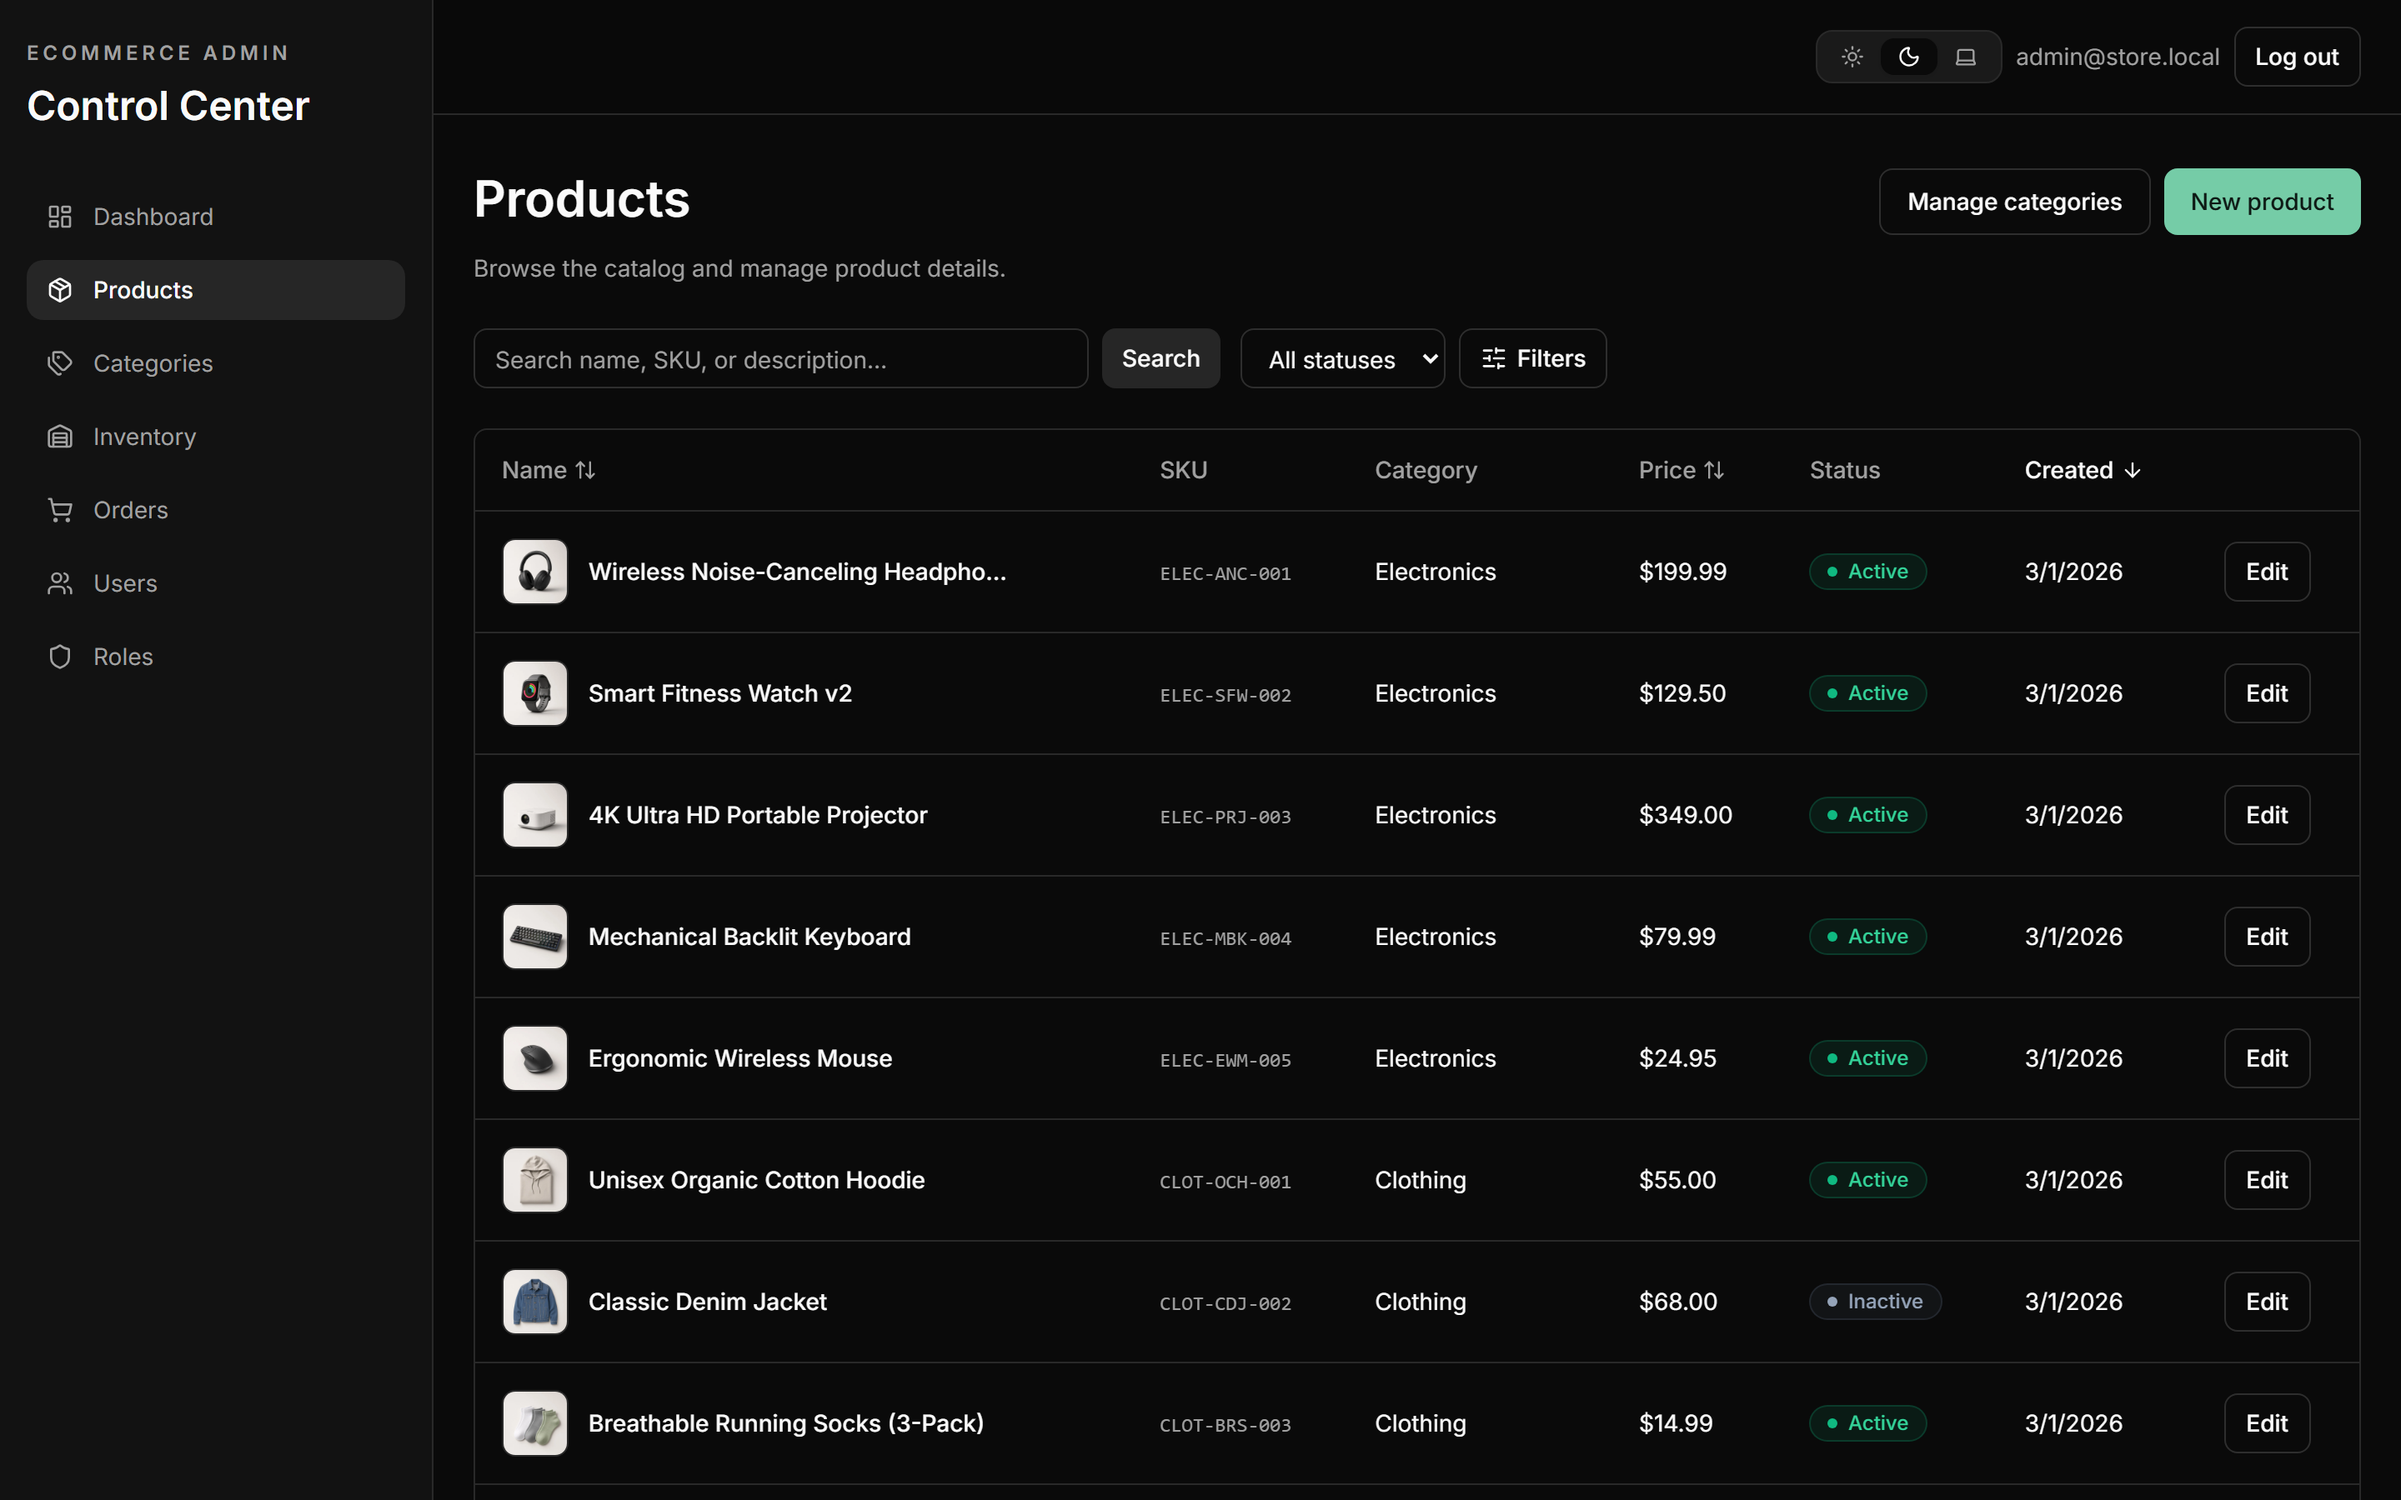
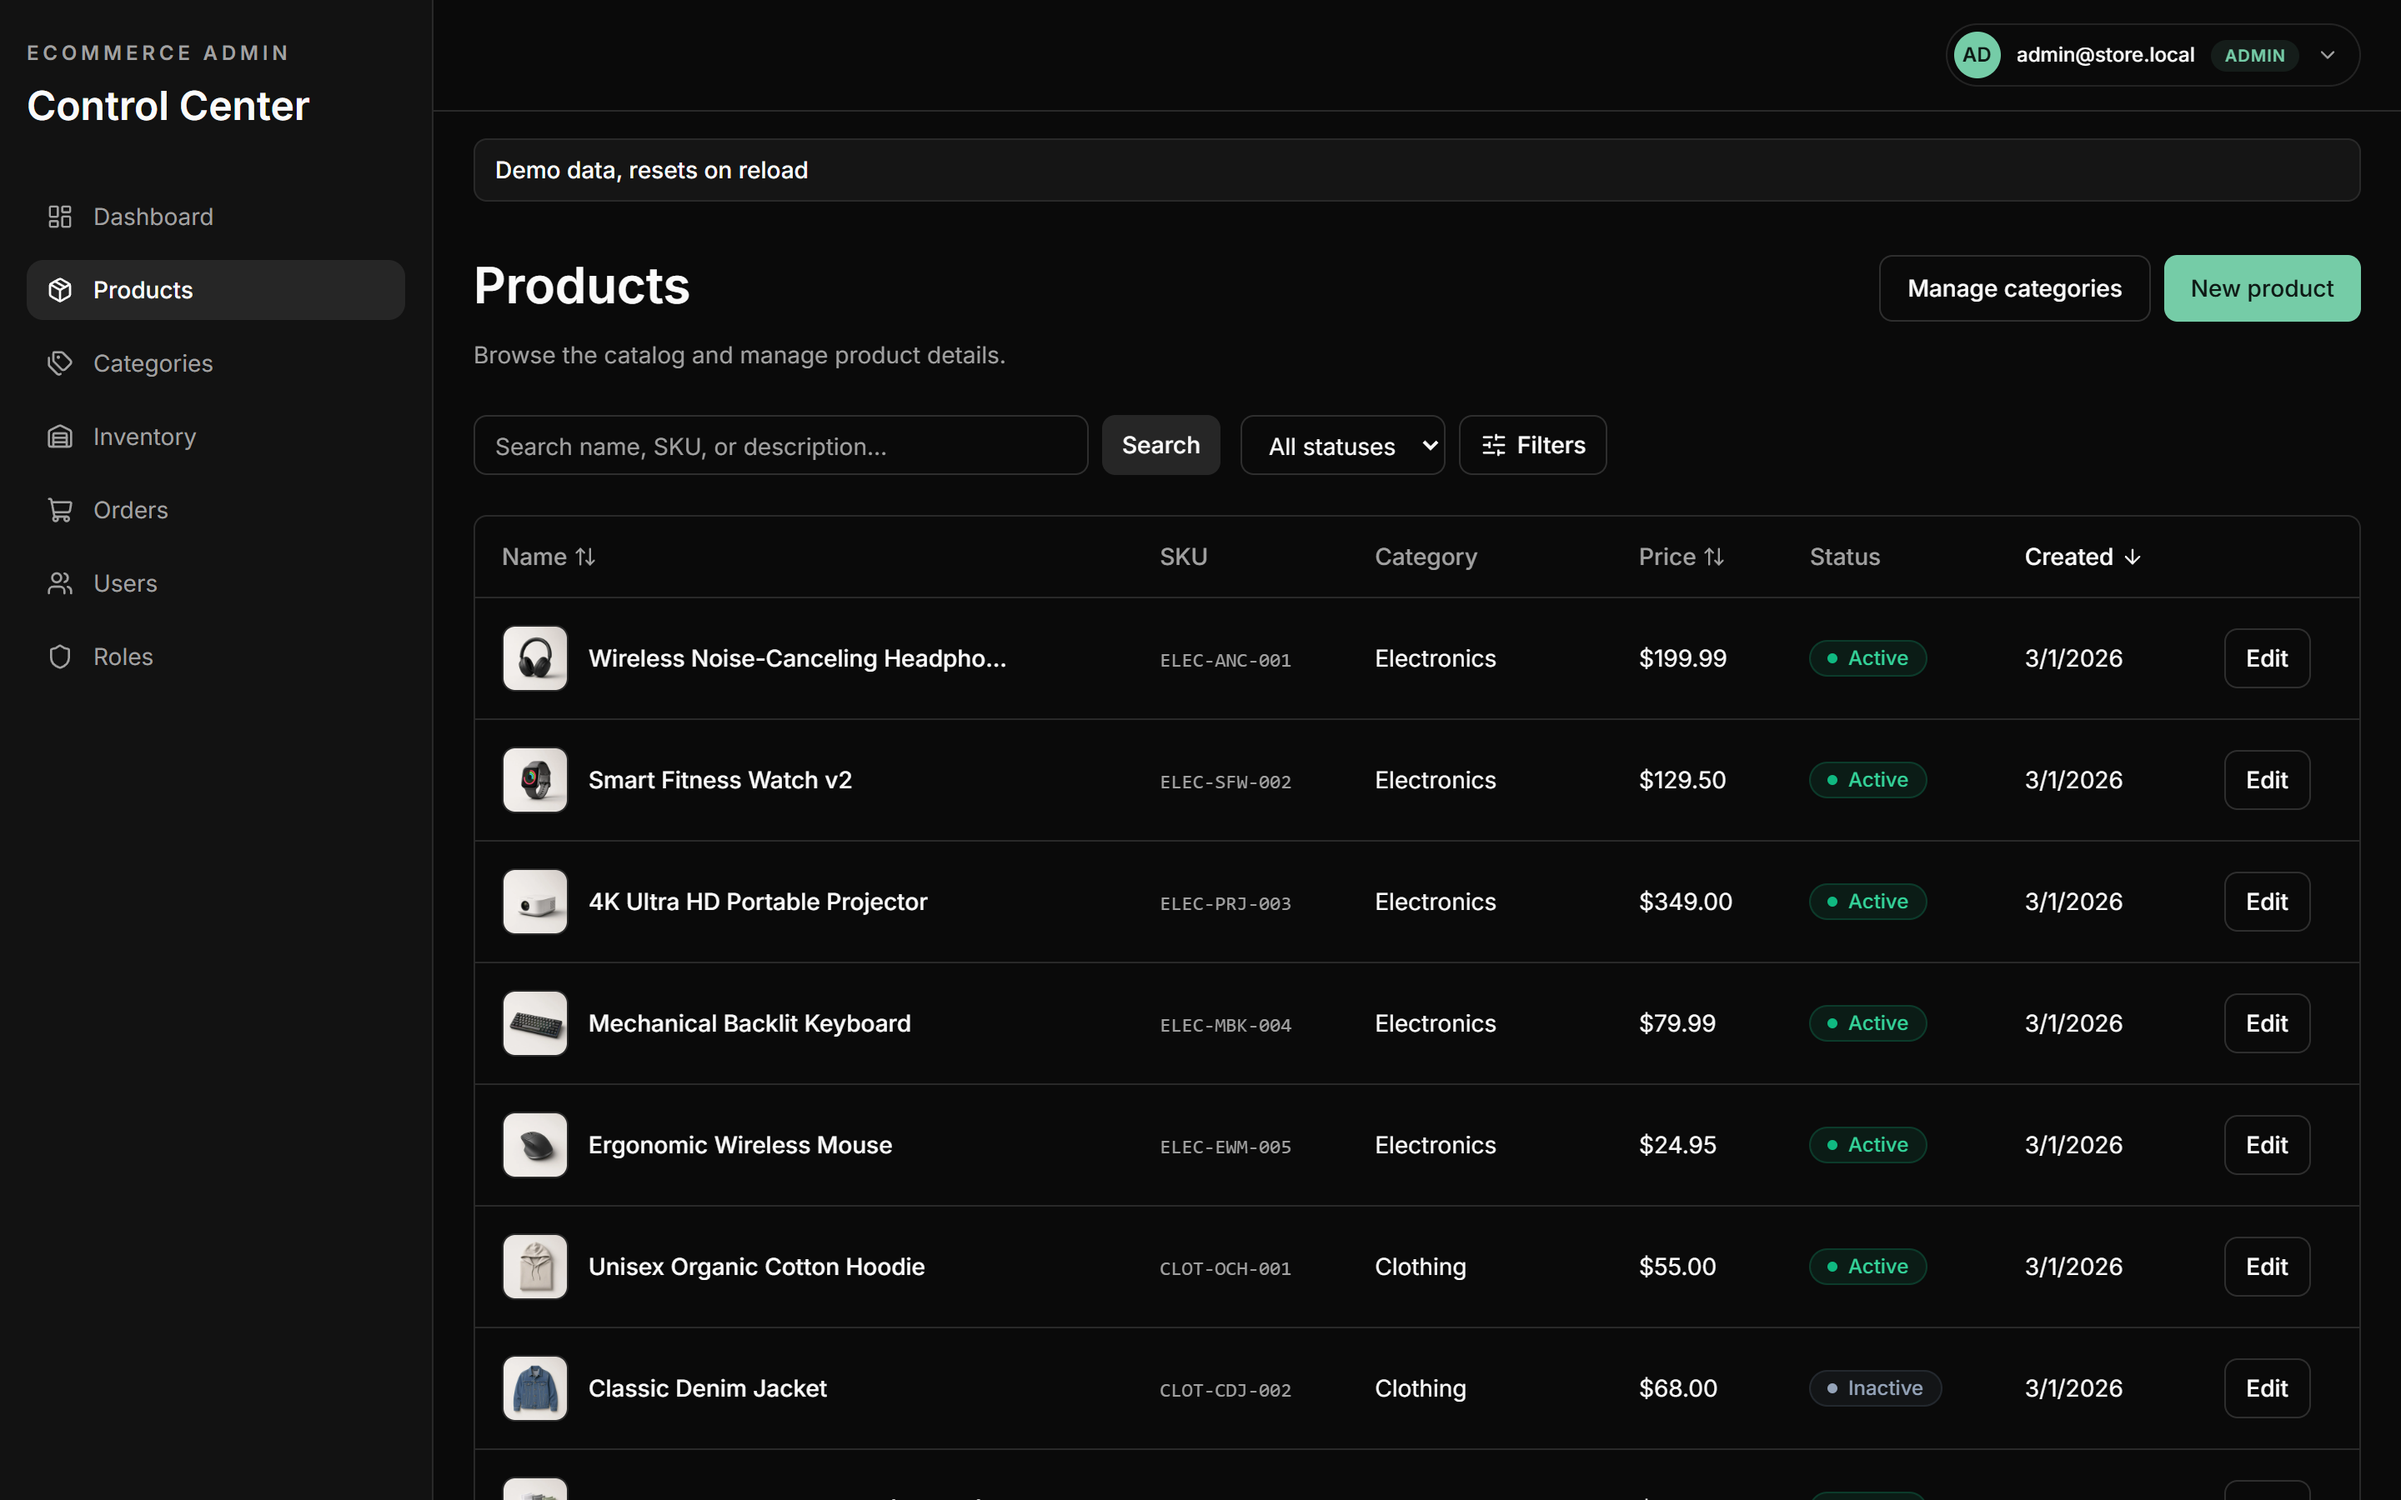
docs(assets): recapture 0.5.0 showcase stills and walkthrough
Refresh README media for the operator user menu, demo banner, and related shell UI before the develop-to-master release. Document CAPTURE_CHANNEL for system Chrome when Playwright browsers are unavailable.

diff --git a/scripts/capture-showcase.js b/scripts/capture-showcase.js
@@ -11,7 +11,10 @@ async function main() {
   const baseUrl = process.env.BASE_URL ?? 'http://localhost:5174';
 
   console.log(`Starting showcase capture at ${baseUrl} (1440x900 @ 2x -> 2880x1800)...`);
-  const browser = await chromium.launch({ headless: true });
+  const browser = await chromium.launch({
+    headless: true,
+    channel: process.env.CAPTURE_CHANNEL || undefined,
+  });
 
   // -------------------------------------------------------------
   // 1. CAPTURE ALL DARK THEME STILLS

diff --git a/scripts/create-walkthrough.js b/scripts/create-walkthrough.js
@@ -84,7 +84,10 @@ async function captureWalkthrough() {
   const width = 1280;
   const height = 800;
 
-  const browser = await chromium.launch({ headless: true });
+  const browser = await chromium.launch({
+    headless: true,
+    channel: process.env.CAPTURE_CHANNEL || undefined,
+  });
   const context = await browser.newContext({
     viewport: { width, height },
     deviceScaleFactor: 1,

diff --git a/CHANGELOG.md b/CHANGELOG.md
@@ -20,14 +20,17 @@ Works with ecommerce-store-api v0.10.0 or later.
 ### Changed
 
 - **Breaking:** payment method `CARD` replaces `STRIPE`. Requires ecommerce-store-api v0.10.0 ([#94](https://github.com/raouf-b-dev/ecommerce-admin-dashboard/pull/94)).
+- Product create and update always send `currency`, matching the API v0.10.0 contract ([#94](https://github.com/raouf-b-dev/ecommerce-admin-dashboard/pull/94)).
 - Responsive admin shell below desktop widths ([#90](https://github.com/raouf-b-dev/ecommerce-admin-dashboard/pull/90)).
 - Tests use the production compiler; mobile Playwright projects added ([#91](https://github.com/raouf-b-dev/ecommerce-admin-dashboard/pull/91)).
 - Slimmer agent guidance ([#88](https://github.com/raouf-b-dev/ecommerce-admin-dashboard/pull/88)).
+- Regenerated README showcase stills and walkthrough for the 0.5.0 shell (user menu, demo banner, payment labels).
 
 ### Fixed
 
 - Only optimistic lock conflicts are treated as version conflicts ([#92](https://github.com/raouf-b-dev/ecommerce-admin-dashboard/pull/92)).
 - CI status gate uses `E2E_STATUS` ([#82](https://github.com/raouf-b-dev/ecommerce-admin-dashboard/pull/82)).
+- E2E CI boots the API from the NestJS 12 `dist/main.js` layout and keeps phone project viewports ([#100](https://github.com/raouf-b-dev/ecommerce-admin-dashboard/pull/100)).
 
 [Compare v0.4.1...v0.5.0](https://github.com/raouf-b-dev/ecommerce-admin-dashboard/compare/v0.4.1...v0.5.0)
 

diff --git a/docs/assets/README.md b/docs/assets/README.md
@@ -5,7 +5,7 @@ Portfolio media for the README hero and screenshot gallery. Captured against **`
 ## Prerequisites
 
 1. From repo root: `npm run dev:mock` (port **5174**).
-2. Playwright Chromium installed: `npx playwright install chromium` (once).
+2. Playwright Chromium installed: `npx playwright install chromium` (once). If the download fails, use a system browser: `CAPTURE_CHANNEL=chrome npm run assets:capture` (or `msedge`).
 
 ## Regenerate
 
@@ -34,3 +34,4 @@ Override base URL if needed: `BASE_URL=http://localhost:5174 npm run assets:capt
 | `screenshot-rbac-matrix-{dark,light}.png` | Roles / permissions dialog |
 
 Additional stills (products, categories, order detail, etc.) are written by `capture-showcase.js` for future docs use.
+
